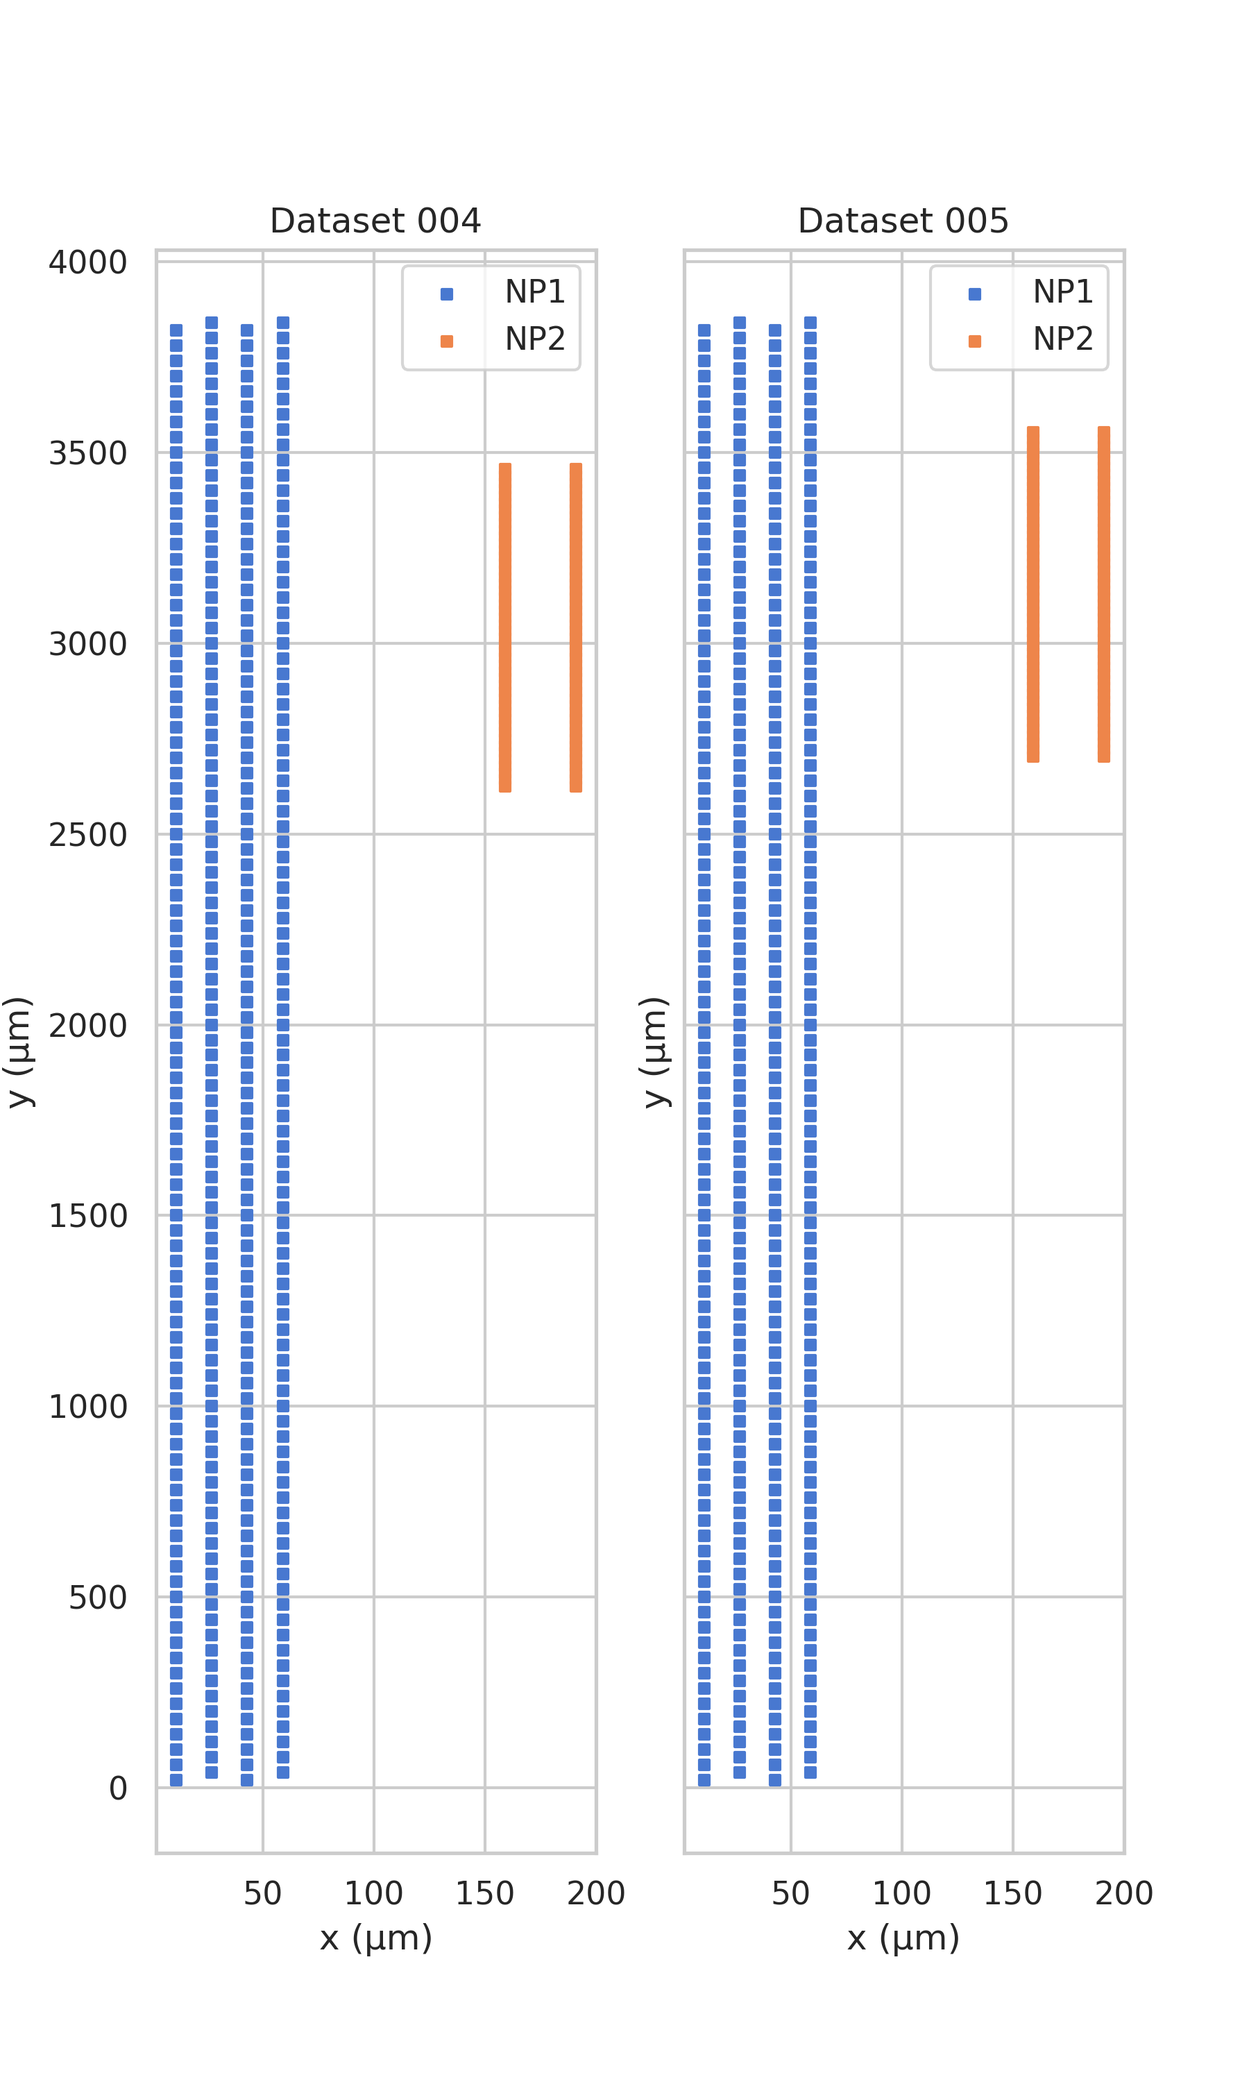
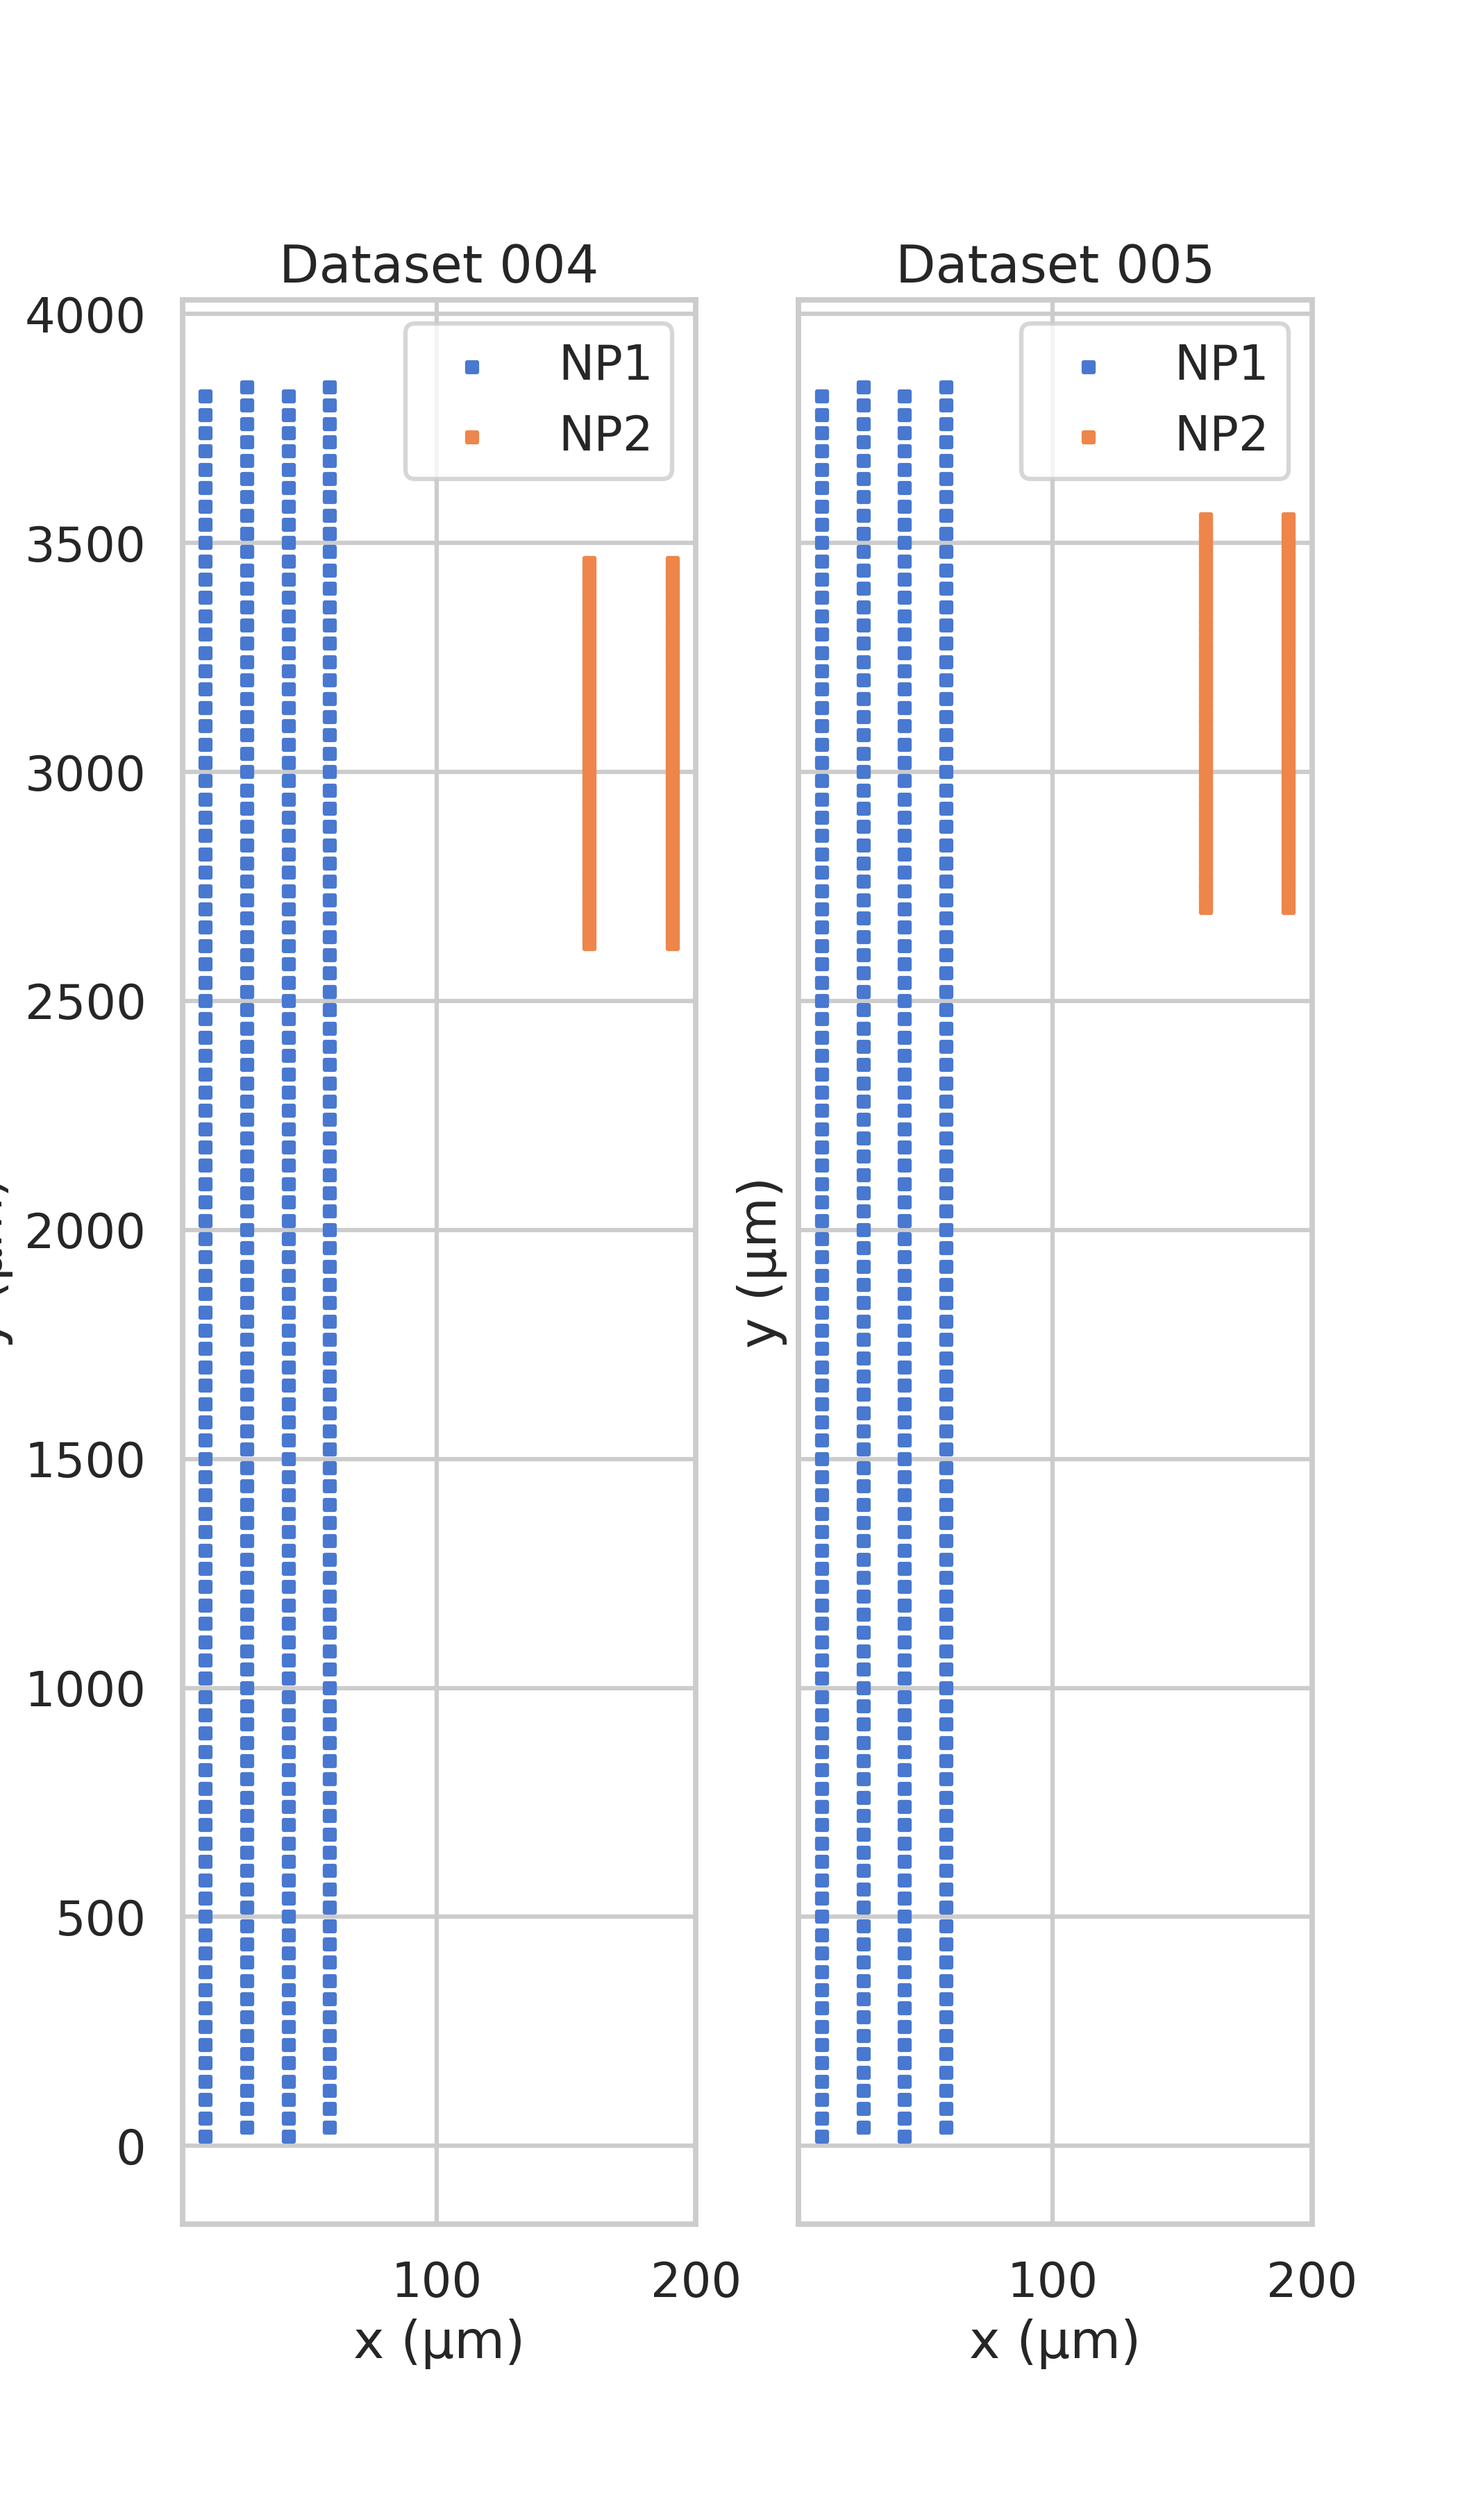
Move figures to _site/ only, gitignore analyses/*/figures/
Images are now tracked exclusively in _site/*/figures/ to avoid duplication.
Source figures in analyses/*/figures/ are gitignored (still present locally).

diff --git a/_site/analyses/2026-05-lfp/index.html b/_site/analyses/2026-05-lfp/index.html
@@ -232,7 +232,7 @@ pre > code.sourceCode > span > a:first-child::before { text-decoration: underlin
 <div class="quarto-figure quarto-figure-center">
 <figure class="figure">
 <p><img src="figures/channel_locations.png" class="img-fluid figure-img" style="width:70.0%"></p>
-<figcaption>Matched channel locations for datasets 004 (left) and 005 (right). NP1 channels (blue) and the depth-aligned NP2 channels (orange) are overlaid on a common y-axis.</figcaption>
+<figcaption>Matched channel locations for datasets 004 Shallow NP2 (left) and 005 Deep NP2 (right). NP1 channels (blue) and the depth-aligned NP2 channels (orange) are overlaid on a common y-axis.</figcaption>
 </figure>
 </div>
 </section>
@@ -279,8 +279,20 @@ pre > code.sourceCode > span > a:first-child::before { text-decoration: underlin
 </table>
 <div class="quarto-figure quarto-figure-center">
 <figure class="figure">
+<p><img src="figures/preprocessing_xcor_002.png" class="img-fluid figure-img"></p>
+<figcaption>Signal traces and normalised cross-correlogram for dataset 002. Each row is one preprocessing stage; right panels show the xcorr within ±200 ms.</figcaption>
+</figure>
+</div>
+<div class="quarto-figure quarto-figure-center">
+<figure class="figure">
+<p><img src="figures/preprocessing_xcor_003.png" class="img-fluid figure-img"></p>
+<figcaption>Same for dataset 003.</figcaption>
+</figure>
+</div>
+<div class="quarto-figure quarto-figure-center">
+<figure class="figure">
 <p><img src="figures/preprocessing_xcor_004.png" class="img-fluid figure-img"></p>
-<figcaption>Signal traces and normalised cross-correlogram for dataset 004. Each row is one preprocessing stage; right panels show the xcorr within ±200 ms.</figcaption>
+<figcaption>Same for dataset 004.</figcaption>
 </figure>
 </div>
 <div class="quarto-figure quarto-figure-center">
@@ -293,6 +305,18 @@ pre > code.sourceCode > span > a:first-child::before { text-decoration: underlin
 <section id="power-spectral-density" class="level2">
 <h2 class="anchored" data-anchor-id="power-spectral-density">Power spectral density</h2>
 <p>PSD curves for all matched channels (30 s epoch, 30 kHz → 2.5 kHz LF band).</p>
+<div class="quarto-figure quarto-figure-center">
+<figure class="figure">
+<p><img src="figures/psd_dataset_002.png" class="img-fluid figure-img"></p>
+<figcaption>PSD — dataset 002. Left: NP1 matched channels. Right: NP2.</figcaption>
+</figure>
+</div>
+<div class="quarto-figure quarto-figure-center">
+<figure class="figure">
+<p><img src="figures/psd_dataset_003.png" class="img-fluid figure-img"></p>
+<figcaption>PSD — dataset 003. Left: NP1 matched channels. Right: NP2.</figcaption>
+</figure>
+</div>
 <div class="quarto-figure quarto-figure-center">
 <figure class="figure">
 <p><img src="figures/psd_dataset_004.png" class="img-fluid figure-img"></p>
@@ -790,7 +814,7 @@ pre > code.sourceCode > span > a:first-child::before { text-decoration: underlin
 <span id="cb1-24"><a href="#cb1-24" aria-hidden="true" tabindex="-1"></a>NP1 has 384 channels in a checkerboard pattern (two interleaved columns); NP2.4 has 96 channels arranged in four straight columns on a single shank.</span>
 <span id="cb1-25"><a href="#cb1-25" aria-hidden="true" tabindex="-1"></a>In experiments 1-4 the lower channels of NP2 recorded. Then for experiments 5-7, NP2 was driven down and higher channels were selected to be recorded.</span>
 <span id="cb1-26"><a href="#cb1-26" aria-hidden="true" tabindex="-1"></a></span>
-<span id="cb1-27"><a href="#cb1-27" aria-hidden="true" tabindex="-1"></a><span class="al">![Matched channel locations for datasets 004 (left) and 005 (right). NP1 channels (blue) and the depth-aligned NP2 channels (orange) are overlaid on a common y-axis.](figures/channel_locations.png)</span>{width=70%}</span>
+<span id="cb1-27"><a href="#cb1-27" aria-hidden="true" tabindex="-1"></a><span class="al">![Matched channel locations for datasets 004 Shallow NP2 (left) and 005 Deep NP2 (right). NP1 channels (blue) and the depth-aligned NP2 channels (orange) are overlaid on a common y-axis.](figures/channel_locations.png)</span>{width=70%}</span>
 <span id="cb1-28"><a href="#cb1-28" aria-hidden="true" tabindex="-1"></a></span>
 <span id="cb1-29"><a href="#cb1-29" aria-hidden="true" tabindex="-1"></a><span class="fu">## Preprocessing - Cross-correlation Evaluation</span></span>
 <span id="cb1-30"><a href="#cb1-30" aria-hidden="true" tabindex="-1"></a></span>
@@ -808,21 +832,29 @@ pre > code.sourceCode > span > a:first-child::before { text-decoration: underlin
 <span id="cb1-42"><a href="#cb1-42" aria-hidden="true" tabindex="-1"></a><span class="pp">|</span> <span class="in">`csd2_denoise`</span> <span class="pp">|</span> 2nd-order CSD on <span class="in">`cadzow`</span><span class="pp">|</span></span>
 <span id="cb1-43"><a href="#cb1-43" aria-hidden="true" tabindex="-1"></a></span>
 <span id="cb1-44"><a href="#cb1-44" aria-hidden="true" tabindex="-1"></a></span>
-<span id="cb1-45"><a href="#cb1-45" aria-hidden="true" tabindex="-1"></a><span class="al">![Signal traces and normalised cross-correlogram for dataset 004. Each row is one preprocessing stage; right panels show the xcorr within ±200 ms.](figures/preprocessing_xcor_004.png)</span></span>
+<span id="cb1-45"><a href="#cb1-45" aria-hidden="true" tabindex="-1"></a><span class="al">![Signal traces and normalised cross-correlogram for dataset 002. Each row is one preprocessing stage; right panels show the xcorr within ±200 ms.](figures/preprocessing_xcor_002.png)</span></span>
 <span id="cb1-46"><a href="#cb1-46" aria-hidden="true" tabindex="-1"></a></span>
-<span id="cb1-47"><a href="#cb1-47" aria-hidden="true" tabindex="-1"></a><span class="al">![Same for dataset 005.](figures/preprocessing_xcor_005.png)</span></span>
+<span id="cb1-47"><a href="#cb1-47" aria-hidden="true" tabindex="-1"></a><span class="al">![Same for dataset 003.](figures/preprocessing_xcor_003.png)</span></span>
 <span id="cb1-48"><a href="#cb1-48" aria-hidden="true" tabindex="-1"></a></span>
-<span id="cb1-49"><a href="#cb1-49" aria-hidden="true" tabindex="-1"></a></span>
-<span id="cb1-50"><a href="#cb1-50" aria-hidden="true" tabindex="-1"></a><span class="fu">## Power spectral density</span></span>
-<span id="cb1-51"><a href="#cb1-51" aria-hidden="true" tabindex="-1"></a></span>
-<span id="cb1-52"><a href="#cb1-52" aria-hidden="true" tabindex="-1"></a>PSD curves for all matched channels (30 s epoch, 30 kHz → 2.5 kHz LF band).</span>
+<span id="cb1-49"><a href="#cb1-49" aria-hidden="true" tabindex="-1"></a><span class="al">![Same for dataset 004.](figures/preprocessing_xcor_004.png)</span></span>
+<span id="cb1-50"><a href="#cb1-50" aria-hidden="true" tabindex="-1"></a></span>
+<span id="cb1-51"><a href="#cb1-51" aria-hidden="true" tabindex="-1"></a><span class="al">![Same for dataset 005.](figures/preprocessing_xcor_005.png)</span></span>
+<span id="cb1-52"><a href="#cb1-52" aria-hidden="true" tabindex="-1"></a></span>
 <span id="cb1-53"><a href="#cb1-53" aria-hidden="true" tabindex="-1"></a></span>
-<span id="cb1-54"><a href="#cb1-54" aria-hidden="true" tabindex="-1"></a><span class="al">![PSD — dataset 004. Left: NP1 matched channels. Right: NP2.](figures/psd_dataset_004.png)</span></span>
+<span id="cb1-54"><a href="#cb1-54" aria-hidden="true" tabindex="-1"></a><span class="fu">## Power spectral density</span></span>
 <span id="cb1-55"><a href="#cb1-55" aria-hidden="true" tabindex="-1"></a></span>
-<span id="cb1-56"><a href="#cb1-56" aria-hidden="true" tabindex="-1"></a><span class="al">![PSD — dataset 005. Left: NP1 matched channels. Right: NP2.](figures/psd_dataset_005.png)</span></span>
+<span id="cb1-56"><a href="#cb1-56" aria-hidden="true" tabindex="-1"></a>PSD curves for all matched channels (30 s epoch, 30 kHz → 2.5 kHz LF band).</span>
 <span id="cb1-57"><a href="#cb1-57" aria-hidden="true" tabindex="-1"></a></span>
-<span id="cb1-58"><a href="#cb1-58" aria-hidden="true" tabindex="-1"></a>Both probes show similar spectral profiles. The 50 Hz mains harmonic is visible but moderate.</span>
-<span id="cb1-59"><a href="#cb1-59" aria-hidden="true" tabindex="-1"></a></span></code></pre></div><button title="Copy to Clipboard" class="code-copy-button" data-in-quarto-modal=""><i class="bi"></i></button></div>
+<span id="cb1-58"><a href="#cb1-58" aria-hidden="true" tabindex="-1"></a><span class="al">![PSD — dataset 002. Left: NP1 matched channels. Right: NP2.](figures/psd_dataset_002.png)</span></span>
+<span id="cb1-59"><a href="#cb1-59" aria-hidden="true" tabindex="-1"></a></span>
+<span id="cb1-60"><a href="#cb1-60" aria-hidden="true" tabindex="-1"></a><span class="al">![PSD — dataset 003. Left: NP1 matched channels. Right: NP2.](figures/psd_dataset_003.png)</span></span>
+<span id="cb1-61"><a href="#cb1-61" aria-hidden="true" tabindex="-1"></a></span>
+<span id="cb1-62"><a href="#cb1-62" aria-hidden="true" tabindex="-1"></a><span class="al">![PSD — dataset 004. Left: NP1 matched channels. Right: NP2.](figures/psd_dataset_004.png)</span></span>
+<span id="cb1-63"><a href="#cb1-63" aria-hidden="true" tabindex="-1"></a></span>
+<span id="cb1-64"><a href="#cb1-64" aria-hidden="true" tabindex="-1"></a><span class="al">![PSD — dataset 005. Left: NP1 matched channels. Right: NP2.](figures/psd_dataset_005.png)</span></span>
+<span id="cb1-65"><a href="#cb1-65" aria-hidden="true" tabindex="-1"></a></span>
+<span id="cb1-66"><a href="#cb1-66" aria-hidden="true" tabindex="-1"></a>Both probes show similar spectral profiles. The 50 Hz mains harmonic is visible but moderate.</span>
+<span id="cb1-67"><a href="#cb1-67" aria-hidden="true" tabindex="-1"></a></span></code></pre></div><button title="Copy to Clipboard" class="code-copy-button" data-in-quarto-modal=""><i class="bi"></i></button></div>
 </div></div></div></div></div>
 </div> <!-- /content -->
 <footer class="footer">

diff --git a/_site/index.html b/_site/index.html
@@ -295,14 +295,14 @@ May 20, 2026
 </div>
 </div></a>
 </div>
[2 lines of base64/hex data omitted]
 <a href="./analyses/2026-05-lfp/index.html" class="quarto-grid-link">
 <div class="quarto-grid-item card h-100 card-left">
 <div class="card-body post-contents">
 <h5 class="no-anchor card-title listing-title">
 Multi-Channel LFP Denoising: NP1 vs NP2
 </h5>
-<div class="listing-reading-time card-text text-muted">2 min</div>
+<div class="listing-reading-time card-text text-muted">3 min</div>
 <div class="listing-categories">
 
 <div class="listing-category" onclick="window.quartoListingCategory('ZWxlY3Ryb3BoeXNpb2xvZ3k='); return false;">electrophysiology</div>
